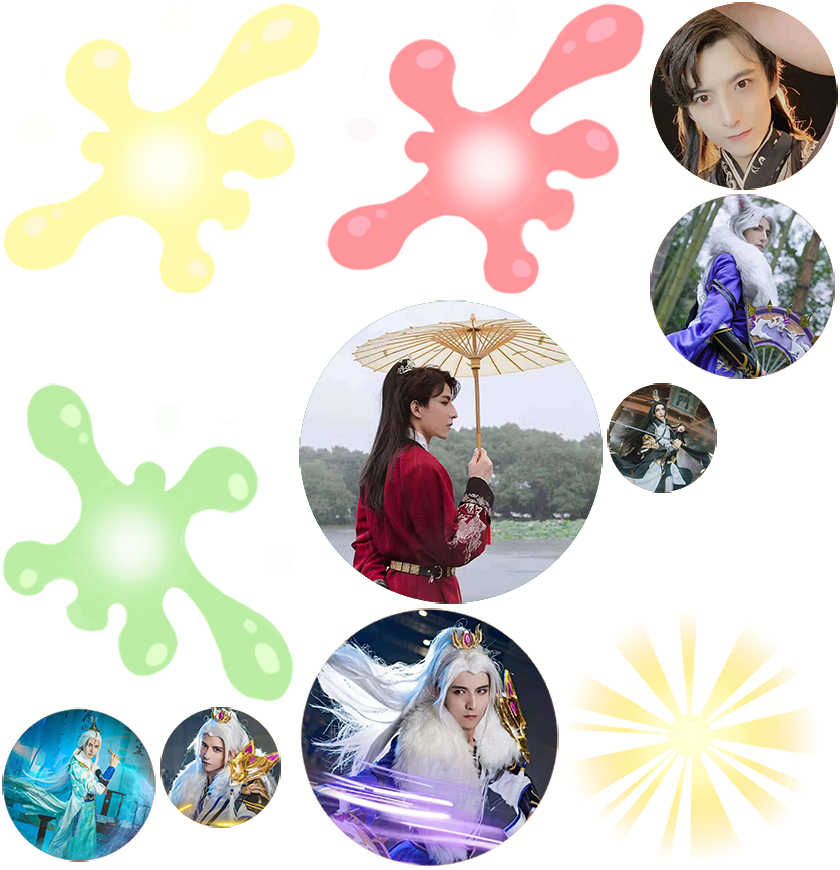
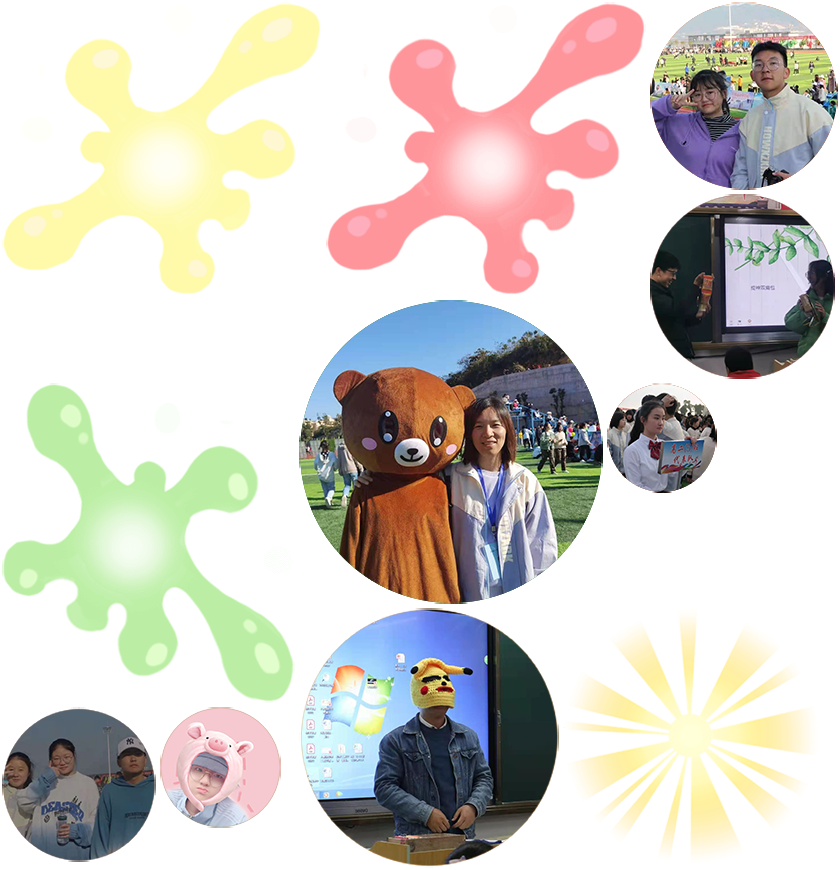
nitial commit

Changed region(s): [[0.0, 0.0, 1.0, 1.0]]

diff --git a/index.html b/index.html
@@ -4,7 +4,7 @@
 <head>
     <meta charset="utf-8">
 
-    <title>合成南宫逸</title>
+    <title>合成五班</title>
 
     <!--http://www.html5rocks.com/en/mobile/mobifying/-->
     <meta name="viewport" content="width=device-width,user-scalable=no,initial-scale=1, minimum-scale=1,maximum-scale=1" />
@@ -109,7 +109,7 @@
             //        console.log("window.navigator.language",window.navigator.language);
 
             if (window.navigator.language == "zh-CN" || window.navigator.language == "zh-cn") {
-                document.title = "合成南宫逸";
+                document.title = "合成五班";
             } 
 
 
